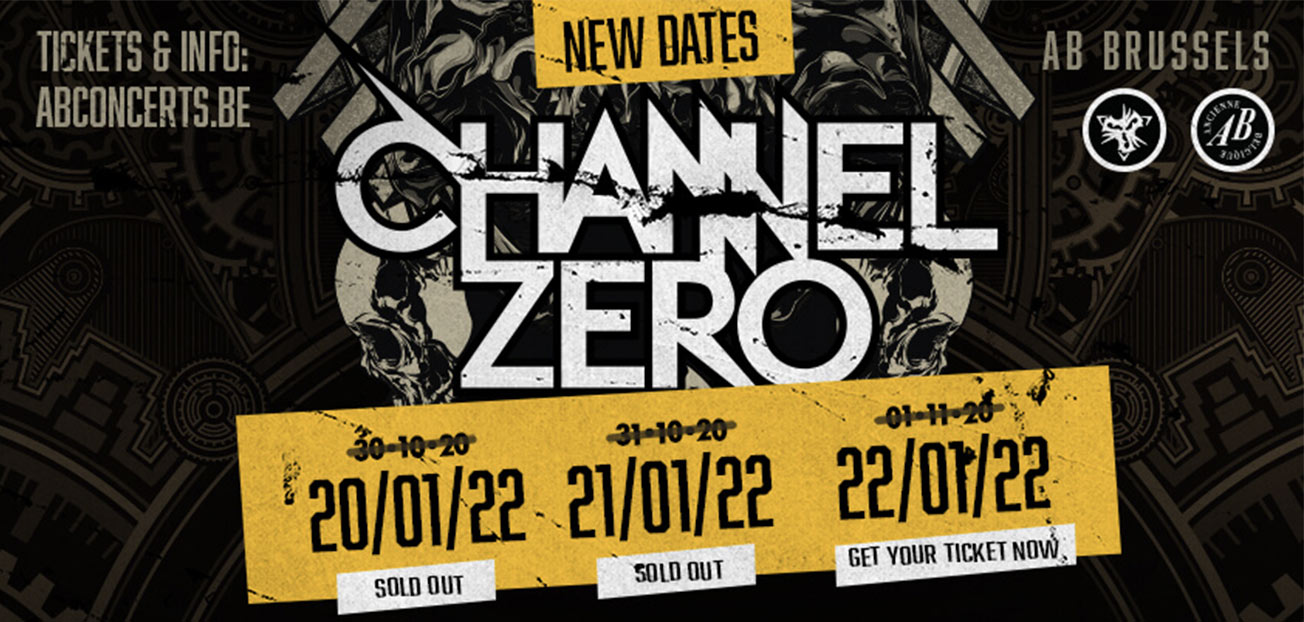
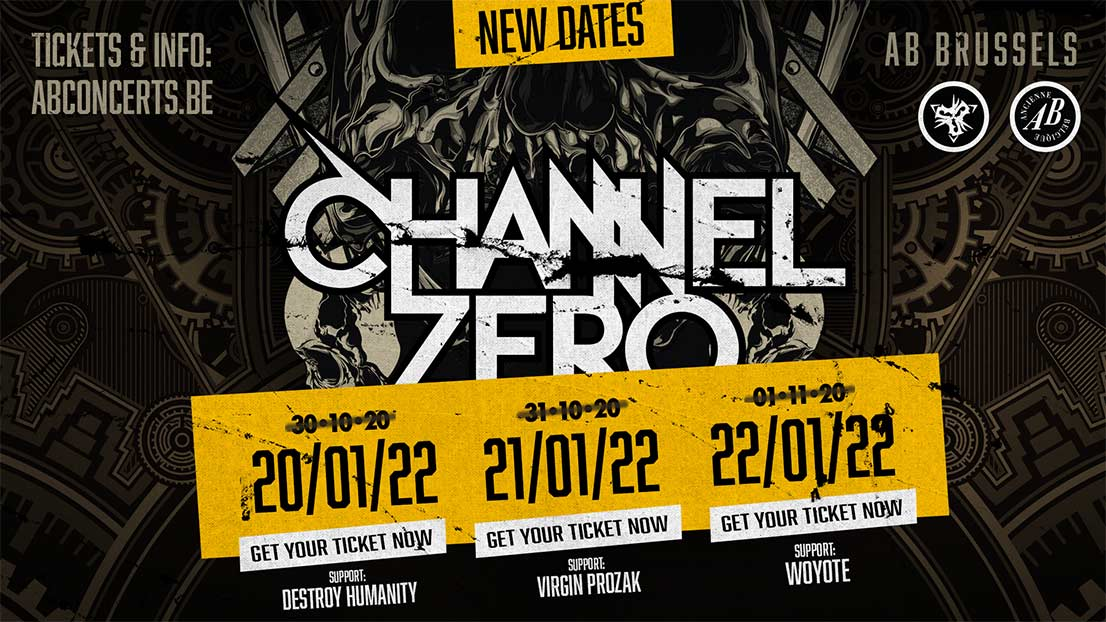
tourdates

diff --git a/_site/index.html b/_site/index.html
@@ -96,7 +96,7 @@
 
   <!-- include content -->
   <section class="cover cover-video text-center">
-   <img src="/img/ab-2022.jpg" alt="ab concerts" class="img-fluid">
+   <a href="/tour-dates" title="tour dates"><img src="/img/ab-2022.jpg" alt="ab concerts" class="img-fluid"></a>
 </section>
 
 <!--
@@ -155,25 +155,6 @@
           <div class="card card-tourdate text-center mb-3">
             <div class="card-header">
               
-              <span class="month d-block">Sep</span>
-              <span class="day d-block">12</span>
-              <span class="year d-block">2021</span>
-            </div>
-            <div class="card-body">
-              
-              <h4 class="card-title alien">Ieper, Belgium<br /><a href="http://www.alcatraz.be/en/clubshows" rel="external" title="alcatraz"><span class="co"><small></small> </span></a></h4>
-              <p class="card-subtitle">Frietrock Ieper<br /><small>Festivalpark, Werchter<br /><a href="https://maps.google.com/?q=Festivalpark, Werchter" rel="external"><i class="fa fa-map-marker" aria-hidden="true"></i>  map</a></small></p>
-            </div>
-            <div class="card-footer">
-              <p>
-            <a href="https://tickets.frietrockieper.be/en" role="button" class="btn btn-primary mr-2" rel="external">Tickets</a></p>
-              <p><a href="https://www.frietrockieper.be/en/schedule/channel-zero/" role="button" class="btn btn-secondary" rel="external">Info</a></p>
-            </div>
-          </div>
-          
-          <div class="card card-tourdate text-center mb-3">
-            <div class="card-header">
-              
               <span class="month d-block">Jan</span>
               <span class="day d-block">20</span>
               <span class="year d-block">2022</span>
@@ -184,7 +165,8 @@
               <p class="card-subtitle">AB Brussels<br /><small>Anspachlaan 110, 1000 Brussels<br /><a href="https://maps.google.com/?q=Anspachlaan 110, 1000 Brussels" rel="external"><i class="fa fa-map-marker" aria-hidden="true"></i>  map</a></small></p>
             </div>
             <div class="card-footer">
-              <p><a role="button" class="btn btn-primary mr-2 disabled" disabled rel="external">Sold out</a> </p>
+              <p>
+            <a href="https://www.abconcerts.be/en/agenda/new-date-30-years-channel-zero-1/a105J000001wd4eQAA" role="button" class="btn btn-primary mr-2" rel="external">Tickets</a></p>
               <p><a href="https://www.facebook.com/events/813028432489593/" role="button" class="btn btn-secondary" rel="external">Info</a></p>
             </div>
           </div>
@@ -202,8 +184,28 @@
               <p class="card-subtitle">AB Brussels<br /><small>Anspachlaan 110, 1000 Brussels<br /><a href="https://maps.google.com/?q=Anspachlaan 110, 1000 Brussels" rel="external"><i class="fa fa-map-marker" aria-hidden="true"></i>  map</a></small></p>
             </div>
             <div class="card-footer">
-              <p><a role="button" class="btn btn-primary mr-2 disabled" disabled rel="external">Sold out</a> </p>
+              <p>
+            <a href="https://www.abconcerts.be/en/agenda/new-date-30-years-channel-zero-2/a105J000001wd4SQAQ" role="button" class="btn btn-primary mr-2" rel="external">Tickets</a></p>
               <p><a href="https://www.facebook.com/events/731626227354494/" role="button" class="btn btn-secondary" rel="external">Info</a></p>
+            </div>
+          </div>
+          
+          <div class="card card-tourdate text-center mb-3">
+            <div class="card-header">
+              
+              <span class="month d-block">Jan</span>
+              <span class="day d-block">22</span>
+              <span class="year d-block">2022</span>
+            </div>
+            <div class="card-body">
+              
+              <h4 class="card-title alien">Brussels, Belgium<br /><a href="http://www.alcatraz.be/en/clubshows" rel="external" title="alcatraz"><span class="co"><small>NEW DATE</small> </span></a></h4>
+              <p class="card-subtitle">AB Brussels<br /><small>Anspachlaan 110, 1000 Brussels<br /><a href="https://maps.google.com/?q=Anspachlaan 110, 1000 Brussels" rel="external"><i class="fa fa-map-marker" aria-hidden="true"></i>  map</a></small></p>
+            </div>
+            <div class="card-footer">
+              <p>
+            <a href="https://www.abconcerts.be/en/agenda/new-date-30-years-channel-zero-3/a105J000001wd21QAA" role="button" class="btn btn-primary mr-2" rel="external">Tickets</a></p>
+              <p><a href="https://www.facebook.com/events/126333725456822/" role="button" class="btn btn-secondary" rel="external">Info</a></p>
             </div>
           </div>
           

diff --git a/_site/tour-dates/index.html b/_site/tour-dates/index.html
@@ -108,26 +108,6 @@
           <div class="col-2 col-sm-2">
             
             <div class="date d-inline-block">
-              <span class="month d-block">Sep</span>
-              <span class="day d-block">12</span>
-              <span class="year d-block">2021</span>
-            </div>
-          </div>
-          <div class="col-10 col-sm-6">
-            
-            <h4 class="alien">Ieper, Belgium <a href="http://www.alcatraz.be/en/clubshows" rel="external" title="alcatraz"><span class="co d-block"><small></small> </span></a></h4>
-            <p>Frietrock Ieper<br /><small>Festivalpark, Werchter <a href="https://maps.google.com/?q=Festivalpark, Werchter" rel="external"><i class="fa fa-map-marker" aria-hidden="true"></i>  map</a></small></p>
-          </div>
-          <div class="col-12 col-sm-4 mb-3 text-sm-right">
-           
-            <a href="https://tickets.frietrockieper.be/en" role="button" class="btn btn-primary mr-2" rel="external">Tickets</a> <a href="https://www.frietrockieper.be/en/schedule/channel-zero/" role="button" class="btn btn-secondary" rel="external">Info</a>
-          </div>
-        </div>
-        
-        <div class="row mb-4 pb-2 border border-top-0 border-left-0 border-right-0">
-          <div class="col-2 col-sm-2">
-            
-            <div class="date d-inline-block">
               <span class="month d-block">Jan</span>
               <span class="day d-block">20</span>
               <span class="year d-block">2022</span>
@@ -139,7 +119,8 @@
             <p>AB Brussels<br /><small>Anspachlaan 110, 1000 Brussels <a href="https://maps.google.com/?q=Anspachlaan 110, 1000 Brussels" rel="external"><i class="fa fa-map-marker" aria-hidden="true"></i>  map</a></small></p>
           </div>
           <div class="col-12 col-sm-4 mb-3 text-sm-right">
-           <a role="button" class="btn btn-primary mr-2 disabled" disabled rel="external">Sold out</a>  <a href="https://www.facebook.com/events/813028432489593/" role="button" class="btn btn-secondary" rel="external">Info</a>
+           
+            <a href="https://www.abconcerts.be/en/agenda/new-date-30-years-channel-zero-1/a105J000001wd4eQAA" role="button" class="btn btn-primary mr-2" rel="external">Tickets</a> <a href="https://www.facebook.com/events/813028432489593/" role="button" class="btn btn-secondary" rel="external">Info</a>
           </div>
         </div>
         
@@ -158,7 +139,8 @@
             <p>AB Brussels<br /><small>Anspachlaan 110, 1000 Brussels <a href="https://maps.google.com/?q=Anspachlaan 110, 1000 Brussels" rel="external"><i class="fa fa-map-marker" aria-hidden="true"></i>  map</a></small></p>
           </div>
           <div class="col-12 col-sm-4 mb-3 text-sm-right">
-           <a role="button" class="btn btn-primary mr-2 disabled" disabled rel="external">Sold out</a>  <a href="https://www.facebook.com/events/731626227354494/" role="button" class="btn btn-secondary" rel="external">Info</a>
+           
+            <a href="https://www.abconcerts.be/en/agenda/new-date-30-years-channel-zero-2/a105J000001wd4SQAQ" role="button" class="btn btn-primary mr-2" rel="external">Tickets</a> <a href="https://www.facebook.com/events/731626227354494/" role="button" class="btn btn-secondary" rel="external">Info</a>
           </div>
         </div>
         
@@ -178,7 +160,7 @@
           </div>
           <div class="col-12 col-sm-4 mb-3 text-sm-right">
            
-            <a href="https://www.abconcerts.be/en/agenda/events/new-date-30-years-channel-zero-3/21691/" role="button" class="btn btn-primary mr-2" rel="external">Tickets</a> <a href="https://www.facebook.com/events/126333725456822/" role="button" class="btn btn-secondary" rel="external">Info</a>
+            <a href="https://www.abconcerts.be/en/agenda/new-date-30-years-channel-zero-3/a105J000001wd21QAA" role="button" class="btn btn-primary mr-2" rel="external">Tickets</a> <a href="https://www.facebook.com/events/126333725456822/" role="button" class="btn btn-secondary" rel="external">Info</a>
           </div>
         </div>
         

diff --git a/index.html b/index.html
@@ -4,7 +4,7 @@ title: Channel Zero
 ---
 
 <section class="cover cover-video text-center">
-   <img src="{{site.baseurl}}/img/ab-2022.jpg" alt="ab concerts" class="img-fluid">
+   <a href="{{site.baseurl}}/tour-dates" title="tour dates"><img src="{{site.baseurl}}/img/ab-2022.jpg" alt="ab concerts" class="img-fluid"></a>
 </section>
 
 <!--
